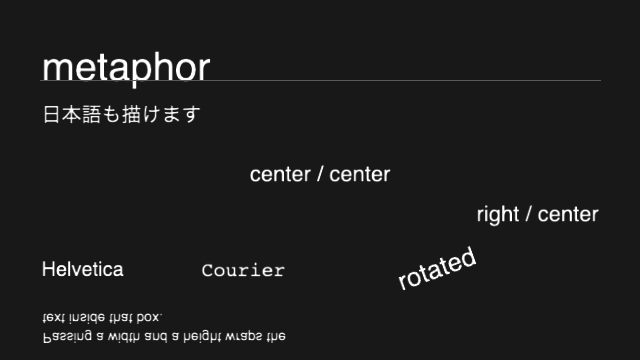
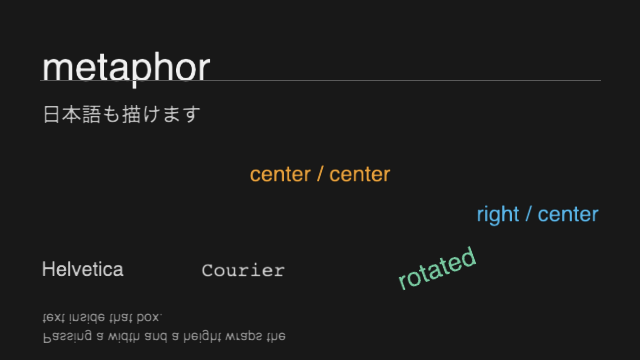
fix(Text): text() が fill 色を無視して白で描かれるのを直す (#516)
テキストの描画経路が 2 つとも頂点色に tint を使っていたため、fill() を
設定しても文字は必ず白（tint 未設定時）で描かれていた。tint() は image()
に色を乗せるための API で、文字色ではない。

- アトラス経路 drawTextFromAtlas の頂点色を fillColor にする
- drawTexturedQuad に color を足し、フォールバック経路の text() 2 本が
  fillColor を渡す（画像・updatePixels は従来どおり tint）

チュートリアル 2.7「テキスト」と 3.3「イージング」の画像を撮り直し、
3.3 の凡例から回避（色を四角で示す）を外した。

diff --git a/Tests/metaphorTests/TextRenderingTests.swift b/Tests/metaphorTests/TextRenderingTests.swift
@@ -1,0 +1,96 @@
+import Testing
+import Metal
+@testable import MetaphorCore
+import MetaphorTestSupport
+
+// MARK: - テキストの色
+
+/// `text()` が **fill 色**で塗られることを画素で確かめる（#516 の回帰テスト）。
+///
+/// グリフはアンチエイリアスがかかるため 1 画素を狙い撃ちしても不安定なので、
+/// 黒背景のキャンバス全体を平均して「どのチャンネルが強いか」で色相を見る。
+@Suite("Text rendering color", .enabled(if: MetalTestHelper.isGPUAvailable))
+@MainActor
+struct TextRenderingColorTests {
+
+    private static let canvasWidth = 160
+    private static let canvasHeight = 64
+
+    /// 黒背景に文字だけを描き、キャンバス全体の平均色を返す。
+    private func renderText(
+        _ draw: (Canvas2D) -> Void
+    ) throws -> (r: Float, g: Float, b: Float, a: Float) {
+        var helper = try RenderTestHelper(width: Self.canvasWidth, height: Self.canvasHeight)
+        helper.setClearColor(r: 0, g: 0, b: 0)
+        try helper.render { canvas in
+            canvas.textSize(40)
+            draw(canvas)
+        }
+        return helper.averageColor(
+            inRect: 0, y: 0, width: Self.canvasWidth, height: Self.canvasHeight
+        )
+    }
+
+    @Test("text() は fill 色で塗られる")
+    func textUsesFillColor() throws {
+        let warm = try renderText { canvas in
+            canvas.fill(230, 90, 70)
+            canvas.text("MW", 10, 50)
+        }
+        #expect(warm.r > 0.01, "文字が描かれていない（平均 R=\(warm.r)）")
+        #expect(warm.r > warm.g * 1.5 && warm.g > warm.b,
+                "fill(230, 90, 70) の色相になっていない: R=\(warm.r) G=\(warm.g) B=\(warm.b)")
+
+        let cool = try renderText { canvas in
+            canvas.fill(70, 90, 230)
+            canvas.text("MW", 10, 50)
+        }
+        #expect(cool.b > cool.r * 1.5 && cool.g > cool.r,
+                "fill(70, 90, 230) の色相になっていない: R=\(cool.r) G=\(cool.g) B=\(cool.b)")
+    }
+
+    @Test("text() の色は fill を変えると変わる")
+    func textColorFollowsFill() throws {
+        let sameFill = try renderText { canvas in
+            canvas.fill(255, 0, 0)
+            canvas.text("M", 10, 50)
+            canvas.text("M", 90, 50)
+        }
+        let differentFill = try renderText { canvas in
+            canvas.fill(255, 0, 0)
+            canvas.text("M", 10, 50)
+            canvas.fill(0, 0, 255)
+            canvas.text("M", 90, 50)
+        }
+        // 同じ位置・同じ字形なので、fill を変えた分だけ B が増え R が減る
+        #expect(differentFill.b > sameFill.b + 0.005,
+                "2 文字目の fill が反映されていない: B \(sameFill.b) → \(differentFill.b)")
+        #expect(differentFill.r < sameFill.r,
+                "2 文字目が赤のまま描かれている: R \(sameFill.r) → \(differentFill.r)")
+    }
+
+    @Test("tint() は文字色を変えない（画像専用）")
+    func tintDoesNotColorText() throws {
+        let tinted = try renderText { canvas in
+            canvas.fill(255)
+            canvas.tint(255, 0, 0)
+            canvas.text("MW", 10, 50)
+        }
+        #expect(tinted.r > 0.01, "文字が描かれていない（平均 R=\(tinted.r)）")
+        // 白い fill なので、tint を無視していれば 3 チャンネルがほぼ揃う
+        #expect(tinted.g > tinted.r * 0.9 && tinted.b > tinted.r * 0.9,
+                "tint が文字色に漏れている: R=\(tinted.r) G=\(tinted.g) B=\(tinted.b)")
+    }
+
+    @Test("矩形を取る text() も fill 色で塗られる")
+    func wrappedTextUsesFillColor() throws {
+        let warm = try renderText { canvas in
+            canvas.textSize(24)
+            canvas.fill(230, 90, 70)
+            canvas.text("MW MW", 10, 6, 140, 52)
+        }
+        #expect(warm.r > 0.01, "文字が描かれていない（平均 R=\(warm.r)）")
+        #expect(warm.r > warm.g * 1.5 && warm.g > warm.b,
+                "fill(230, 90, 70) の色相になっていない: R=\(warm.r) G=\(warm.g) B=\(warm.b)")
+    }
+}

diff --git a/Sources/MetaphorCore/Drawing/Canvas2DImage.swift b/Sources/MetaphorCore/Drawing/Canvas2DImage.swift
@@ -71,9 +71,12 @@ extension Canvas2D {
     // MARK: - プライベート: テクスチャ付きクワッド（バッチ処理）
 
     /// テクスチャ付きクワッドを頂点バッファに蓄積します（同一テクスチャのクワッドはバッチ処理されます）。
+    /// - Parameter color: 頂点色。`nil` なら `tint()`（画像用）を使います。テキストのように
+    ///   tint ではなく fill 色で塗るべき描画は、ここに色を渡します（#516）。
     func drawTexturedQuad(
         texture: MTLTexture, x: Float, y: Float, w: Float, h: Float,
-        srcX: Float = 0, srcY: Float = 0, srcW: Float? = nil, srcH: Float? = nil
+        srcX: Float = 0, srcY: Float = 0, srcW: Float? = nil, srcH: Float? = nil,
+        color: SIMD4<Float>? = nil
     ) {
         // 記録フレーム（isDeferring）でも蓄積する。encoder のみのガードだと
         // 影オン / METAPHOR_COMMAND_RECORD のフレームで image() が消失する（#152）
@@ -120,8 +123,8 @@ extension Canvas2D {
         let u1 = (srcX + (srcW ?? tw)) / tw
         let v1 = (srcY + (srcH ?? th)) / th
 
-        let tint = hasTint ? tintColor : SIMD4<Float>(1, 1, 1, 1)
-        let r = tint.x, g = tint.y, b = tint.z, a = tint.w
+        let vertexColor = color ?? (hasTint ? tintColor : SIMD4<Float>(1, 1, 1, 1))
+        let r = vertexColor.x, g = vertexColor.y, b = vertexColor.z, a = vertexColor.w
         let p0 = currentTransform * SIMD3<Float>(x, y, 1)
         let p1 = currentTransform * SIMD3<Float>(x + w, y, 1)
         let p2 = currentTransform * SIMD3<Float>(x + w, y + h, 1)
@@ -183,8 +186,11 @@ extension Canvas2D {
             }
         }
 
-        let tint = hasTint ? tintColor : SIMD4<Float>(1, 1, 1, 1)
-        let r = tint.x, g = tint.y, b = tint.z, a = tint.w
+        // グリフのアトラスは白（プリマルチプライ済み）で焼かれているので、頂点色を
+        // 掛けるとその色の文字になる。ここは tint ではなく fill 色を使う（#516）。
+        // tint() は image() 用の API で、文字色ではない。
+        let textColor = fillColor
+        let r = textColor.x, g = textColor.y, b = textColor.z, a = textColor.w
         let verts = texturedVertices
         var off = texturedBufferOffset + texturedVertexCount
 

diff --git a/Sources/MetaphorCore/Drawing/Canvas2DText.swift b/Sources/MetaphorCore/Drawing/Canvas2DText.swift
@@ -111,7 +111,11 @@ extension Canvas2D {
         case .bottom: drawY -= cached.height
         }
 
-        drawTexturedQuad(texture: cached.texture, x: drawX, y: drawY, w: cached.width, h: cached.height)
+        // アトラス経路と同じく fill 色で塗る（tint は image() 用、#516）
+        drawTexturedQuad(
+            texture: cached.texture, x: drawX, y: drawY, w: cached.width, h: cached.height,
+            color: fillColor
+        )
     }
 
     /// バウンディングボックス内に自動改行付きでテキストを描画します。
@@ -148,6 +152,10 @@ extension Canvas2D {
         case .bottom: drawY += h - cached.height
         }
 
-        drawTexturedQuad(texture: cached.texture, x: drawX, y: drawY, w: cached.width, h: cached.height)
+        // 3 引数版と同じく fill 色で塗る（tint は image() 用、#516）
+        drawTexturedQuad(
+            texture: cached.texture, x: drawX, y: drawY, w: cached.width, h: cached.height,
+            color: fillColor
+        )
     }
 }

diff --git a/Examples/Tutorial/03-Motion/03-Easing/Easing/App.swift b/Examples/Tutorial/03-Motion/03-Easing/Easing/App.swift
@@ -64,15 +64,13 @@ final class Easing: Sketch {
             circle(xs[i], ys[i], 24)
         }
 
-        // どの色がどの係数かを凡例で示す。文字はいま fill 色を反映しない
-        // （metaphor の既知の不具合 #516）ので、色は四角で示す
+        // どの色がどの係数かを凡例で示す。文字も図形と同じく fill 色で塗られる
         textSize(14)
         for i in easings.indices {
             let (r, g, b) = colors[i]
             let baseline = 28 + Float(i) * 22
             fill(r, g, b)
-            rect(20, baseline - 11, 12, 12)
-            text("easing = \(easings[i])", 40, baseline)
+            text("easing = \(easings[i])", 20, baseline)
         }
     }
 

diff --git a/docs/tutorial/03-motion.md b/docs/tutorial/03-motion.md
@@ -100,15 +100,13 @@ final class Easing: Sketch {
             circle(xs[i], ys[i], 24)
         }
 
-        // どの色がどの係数かを凡例で示す。文字はいま fill 色を反映しない
-        // （metaphor の既知の不具合 #516）ので、色は四角で示す
+        // どの色がどの係数かを凡例で示す。文字も図形と同じく fill 色で塗られる
         textSize(14)
         for i in easings.indices {
             let (r, g, b) = colors[i]
             let baseline = 28 + Float(i) * 22
             fill(r, g, b)
-            rect(20, baseline - 11, 12, 12)
-            text("easing = \(easings[i])", 40, baseline)
+            text("easing = \(easings[i])", 20, baseline)
         }
     }
 

diff --git a/changelog.d/516.fixed.md b/changelog.d/516.fixed.md
@@ -1,0 +1,5 @@
+- `text()` is drawn with the current `fill()` color again. Both text paths (the
+  glyph atlas and the cached-texture fallback) took their vertex color from
+  `tint()`, so every string came out white — or tinted by whatever color was
+  meant for `image()`. `tint()` now stays confined to image drawing
+  ([#516](https://github.com/shinyaoguri/metaphor/issues/516))
